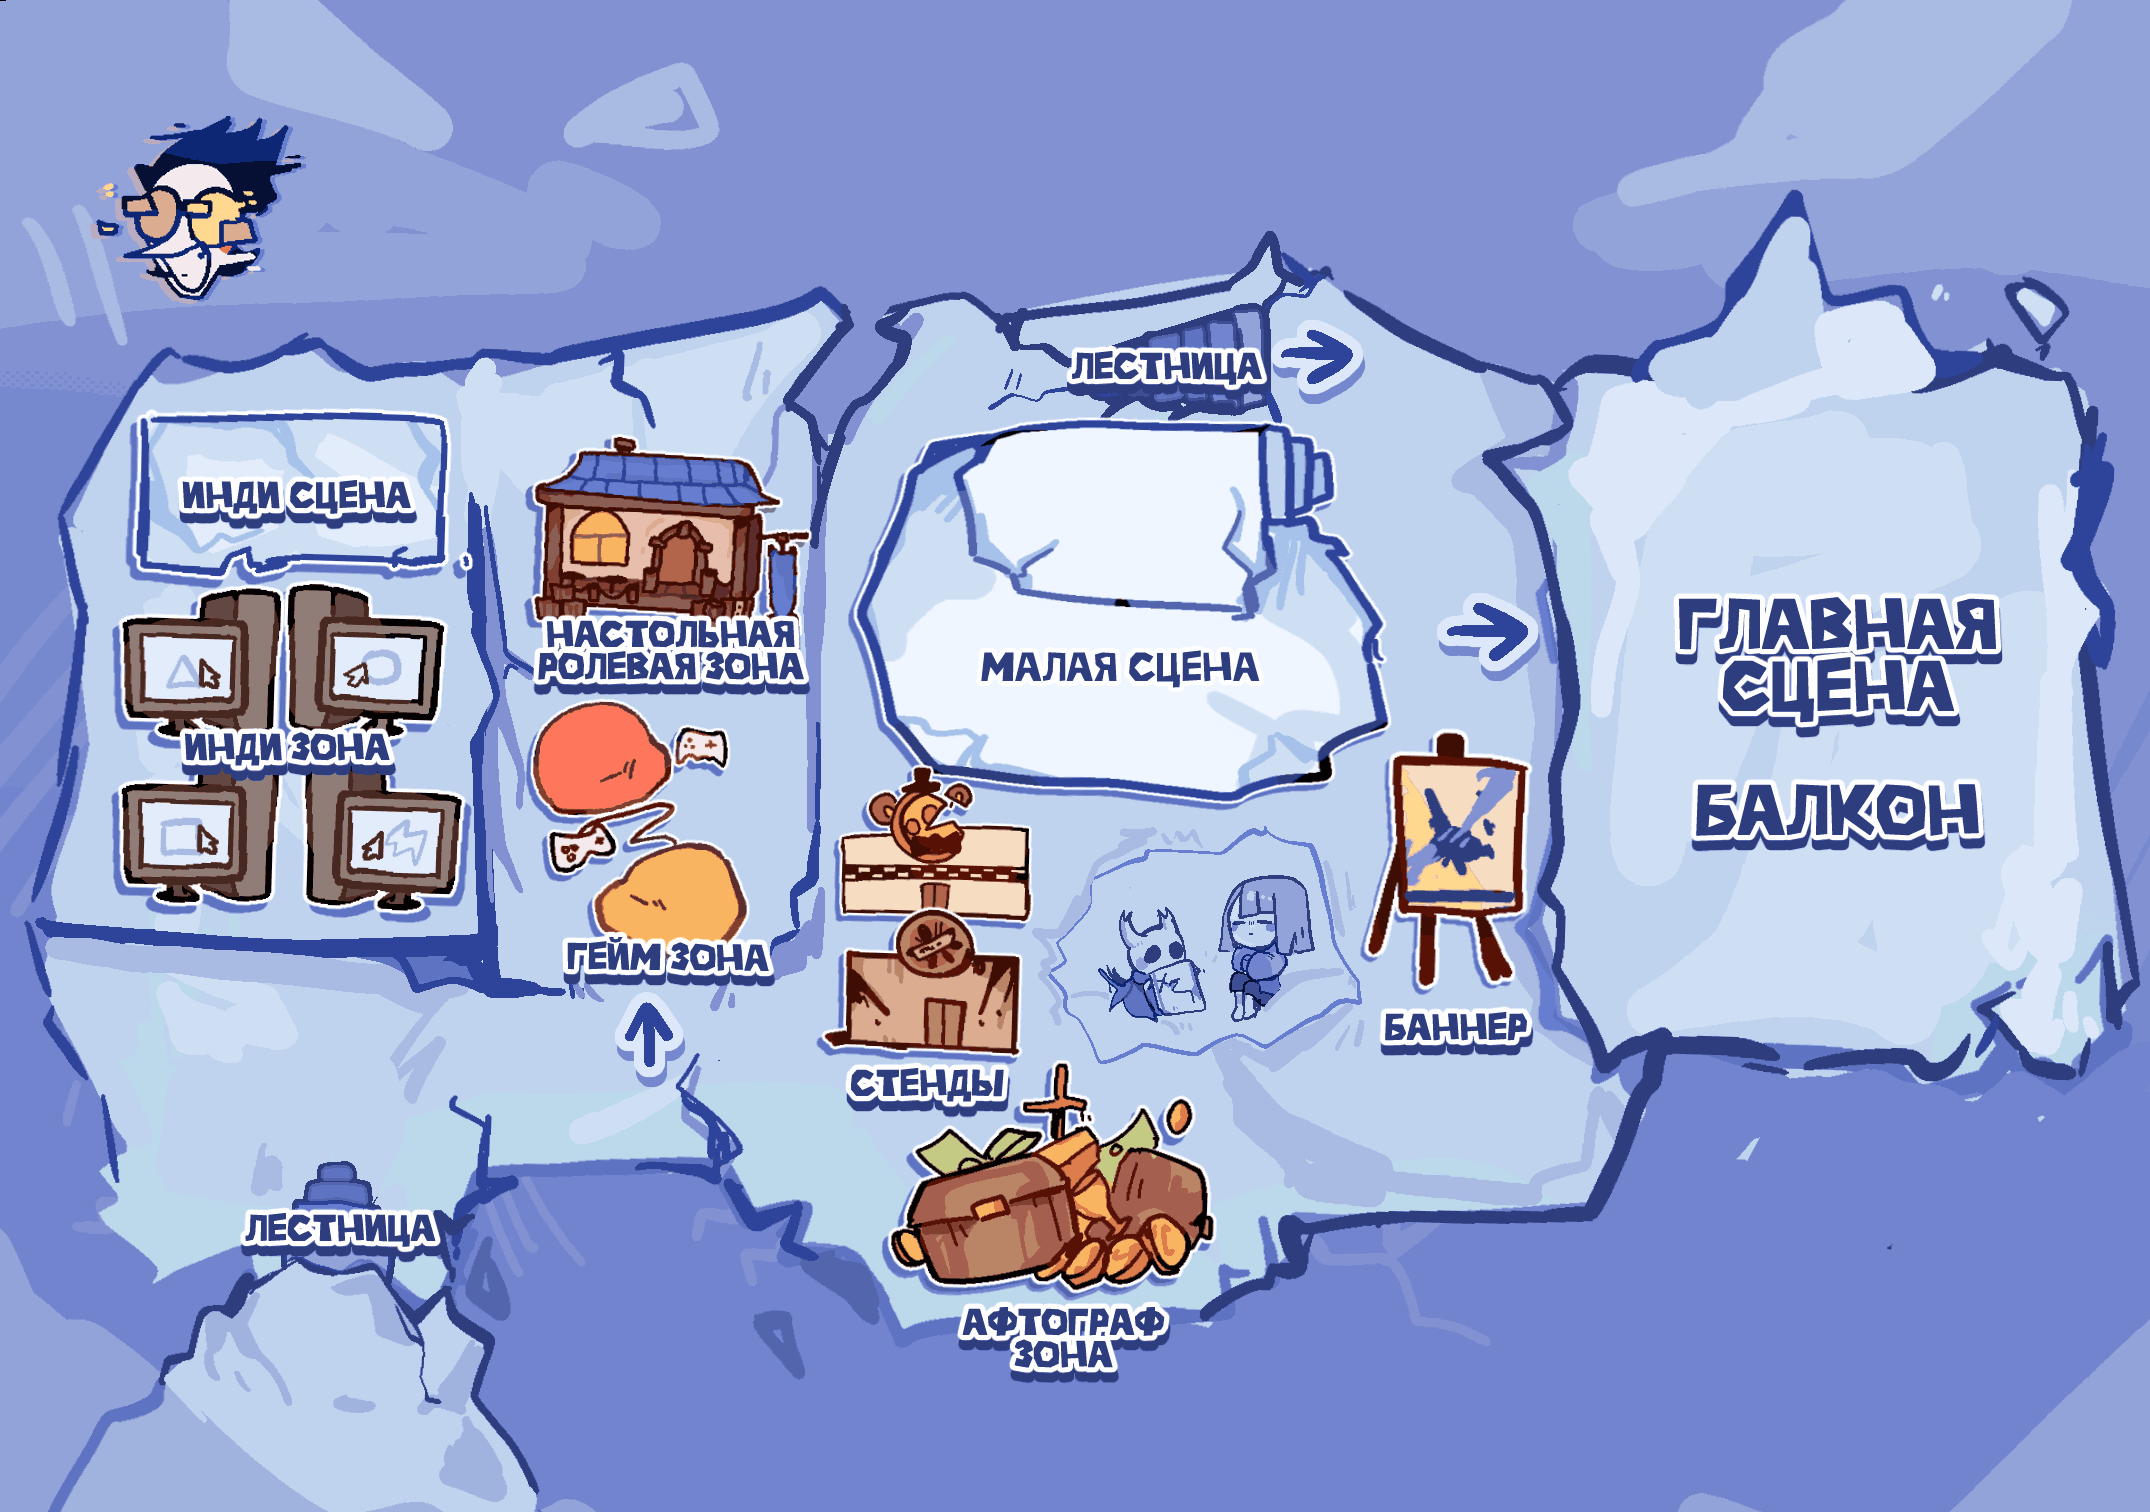
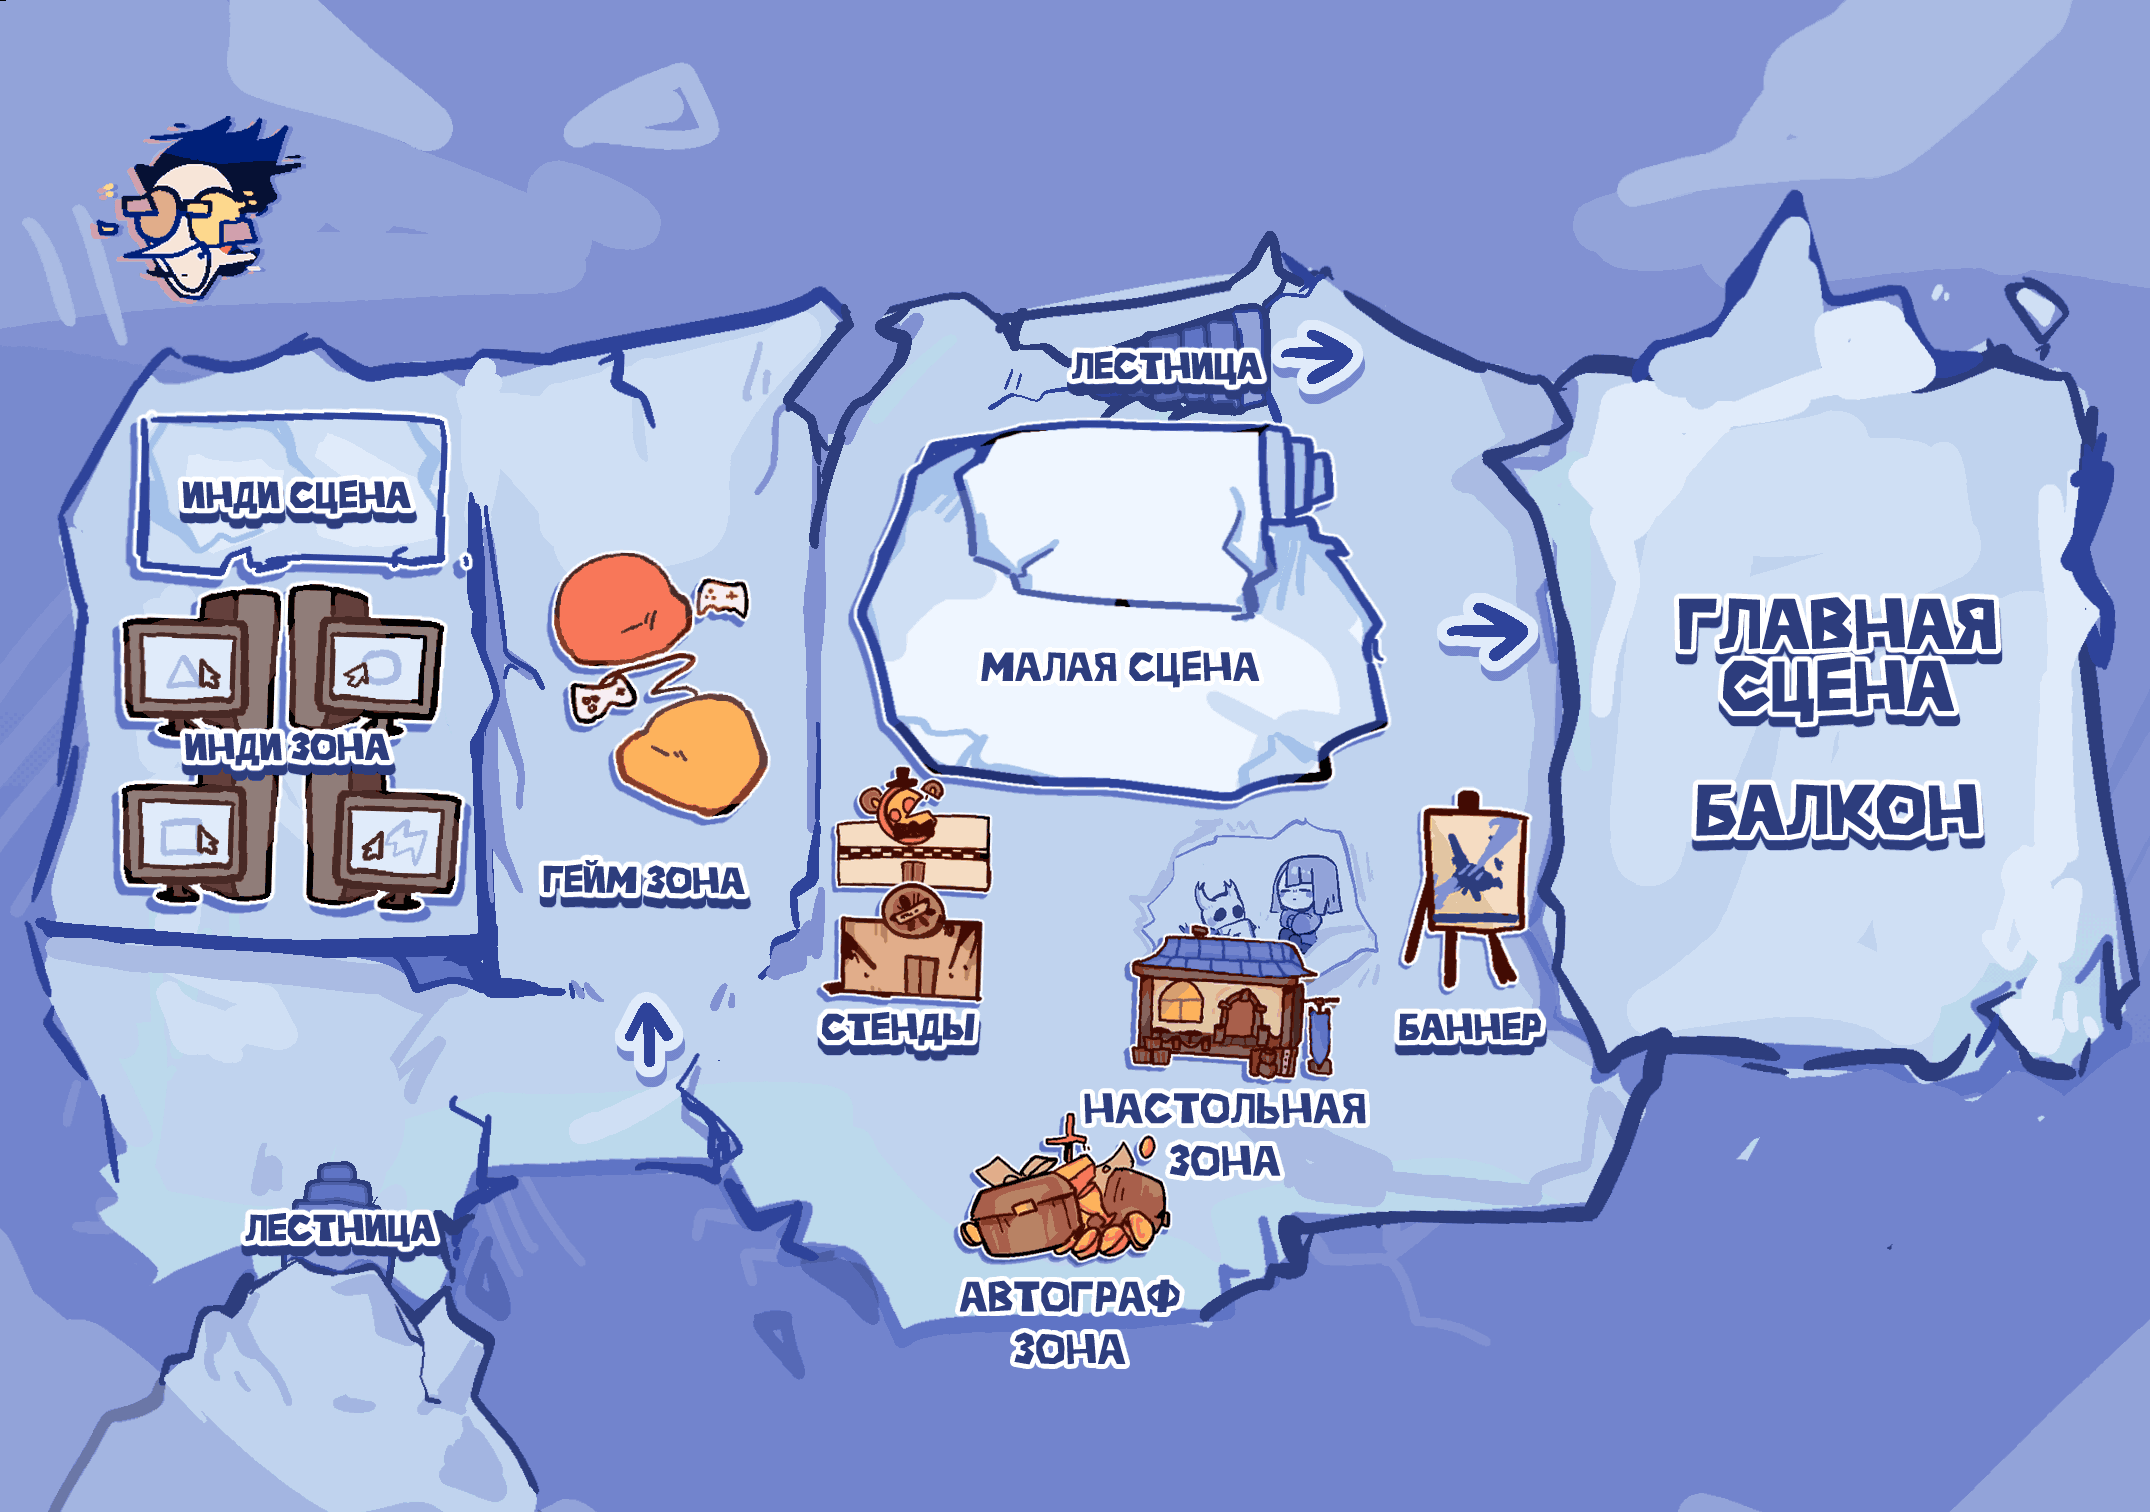
update map

diff --git a/frontend/src/pages/MapPage/index.tsx b/frontend/src/pages/MapPage/index.tsx
@@ -1,7 +1,9 @@
 import styles from "./styles.module.css"
 import map1 from "./map1.png";
 import map2 from "./map2.png";
-import map3 from "./map3.png";
+import map3 from "./map3.jpeg";
+import map4 from "./map4.jpeg";
+import map5 from "./map5.jpeg";
 import mark_mady from "./marks/mady.png";
 import mark_info from "./marks/info.png";
 import mark_indi from "./marks/indi.png";
@@ -73,9 +75,9 @@ export default function MapPage()
 				{displayError(quests)}
 				<div className={styles.map} style={{ display: openedQuest.v ? "none" : "" }}>
 					<InteractiveMap
-						img={[map1, map2, map3][map.v]}
-						imgW={2150}
-						imgH={1512}
+						img={[map1, map2, map3, map4, map5][map.v]}
+						imgW={[2150, 2150, 1600, 1600, 1600][map.v]}
+						imgH={[1512, 1512, 1125, 1142, 1395][map.v]}
 						zoomMin={1}
 						disablePadding
 						fillOnStart
@@ -87,12 +89,12 @@ export default function MapPage()
 						], [
 							questMark(1, mark_mady, 3.6, 6.9, 11.2, 14,),
 							questMark(4, mark_indi, 4.7, 26.3, 17.9, 35.5),
-							questMark(5, mark_game, 23.9, 45.5, 12.2, 19.7),
-							questMark(6, mark_stand, 37.4, 49.9, 11.2, 21.2),
-							questMark(7, mark_banner, 62.7, 47.5, 9.1, 19.1),
+							questMark(5, mark_game, 24.8, 35.4, 11.7, 20.2),
+							questMark(6, mark_stand, 37.5, 49.9, 9.2, 17.4),
+							questMark(7, mark_banner, 64.7, 51.5, 7, 14.8),
 						], [
 							questMark(1, mark_mady, 3.6, 6.9, 11.2, 14,),
-						]][map.v] : []}
+						], [], []][map.v] : []}
 					/>
 				</div>
 				{openedQuest.v &&
@@ -129,6 +131,14 @@ export default function MapPage()
 				</Textbox>
 				<Textbox small btn highlight={map.v == 2}>
 					<button onClick={() => map.set(2)} className={classNames(styles.btn, "title")}>Этаж 3</button>
+				</Textbox>
+			</div>
+			<div className={styles.btns}>
+				<Textbox small btn highlight={map.v == 3}>
+					<button onClick={() => map.set(3)} className={classNames(styles.btn, "title")}>Инди</button>
+				</Textbox>
+				<Textbox small btn highlight={map.v == 4}>
+					<button onClick={() => map.set(4)} className={classNames(styles.btn, "title")}>Маркет</button>
 				</Textbox>
 			</div>
 		</Layout>

diff --git a/frontend/src/pages/MapPage/InteractiveMap/index.tsx b/frontend/src/pages/MapPage/InteractiveMap/index.tsx
@@ -68,7 +68,7 @@ export default function InteractiveMap({ img, imgW, imgH, objects, objectsOpacit
 			window.removeEventListener("resize", setSize);
 		}
 		// eslint-disable-next-line
-	}, [mapEl, state.v.toCenter]);
+	}, [mapEl, state.v.toCenter, imgH, imgW]);
 
 	useEffect(() =>
 	{
@@ -271,7 +271,7 @@ export default function InteractiveMap({ img, imgW, imgH, objects, objectsOpacit
 			el.removeEventListener("touchend", onTouchEnd);
 		}
 		// eslint-disable-next-line
-	}, [mapEl, zoomMin, zoomMax, disablePadding])
+	}, [mapEl, zoomMin, zoomMax, disablePadding, imgH, imgW])
 
 	function setMarkClick(onClick: (() => void) | undefined)
 	{
@@ -291,7 +291,7 @@ export default function InteractiveMap({ img, imgW, imgH, objects, objectsOpacit
 				"--h": `${state.v.h}px`,
 			} as React.CSSProperties}>
 				<img src={img} alt="Карта" />
-				{(objects?.filter(v => !!v) as MapObject[]).map((v, i) => <div
+				{((objects || []).filter(v => !!v) as MapObject[]).map((v, i) => <div
 					key={i}
 					className={styles.mark}
 					onMouseDown={() => setMarkClick(v.onClick)}

diff --git a/frontend/src/components/Footer/styles.module.css b/frontend/src/components/Footer/styles.module.css
@@ -2,7 +2,7 @@
 	display: flex;
 	justify-content: center;
 	padding-block: 0.4rem;
-	margin-bottom: 3rem;
+	margin-bottom: 2rem;
 	z-index: 2;
 }
 

diff --git a/frontend/src/pages/TimetablePage/styles.module.css b/frontend/src/pages/TimetablePage/styles.module.css
@@ -8,7 +8,7 @@
 }
 
 .body {
-	margin-bottom: 2.5rem;
+	margin-bottom: 3.15rem;
 	min-height: 0;
 	flex-grow: 1;
 	display: flex;

diff --git a/frontend/src/pages/StorePage/styles.module.css b/frontend/src/pages/StorePage/styles.module.css
@@ -2,7 +2,7 @@
 
 .list {
 	flex-grow: 1;
-	margin-bottom: 2rem;
+	/* margin-bottom: 2rem; */
 	margin-left: -0.5rem;
 }
 
